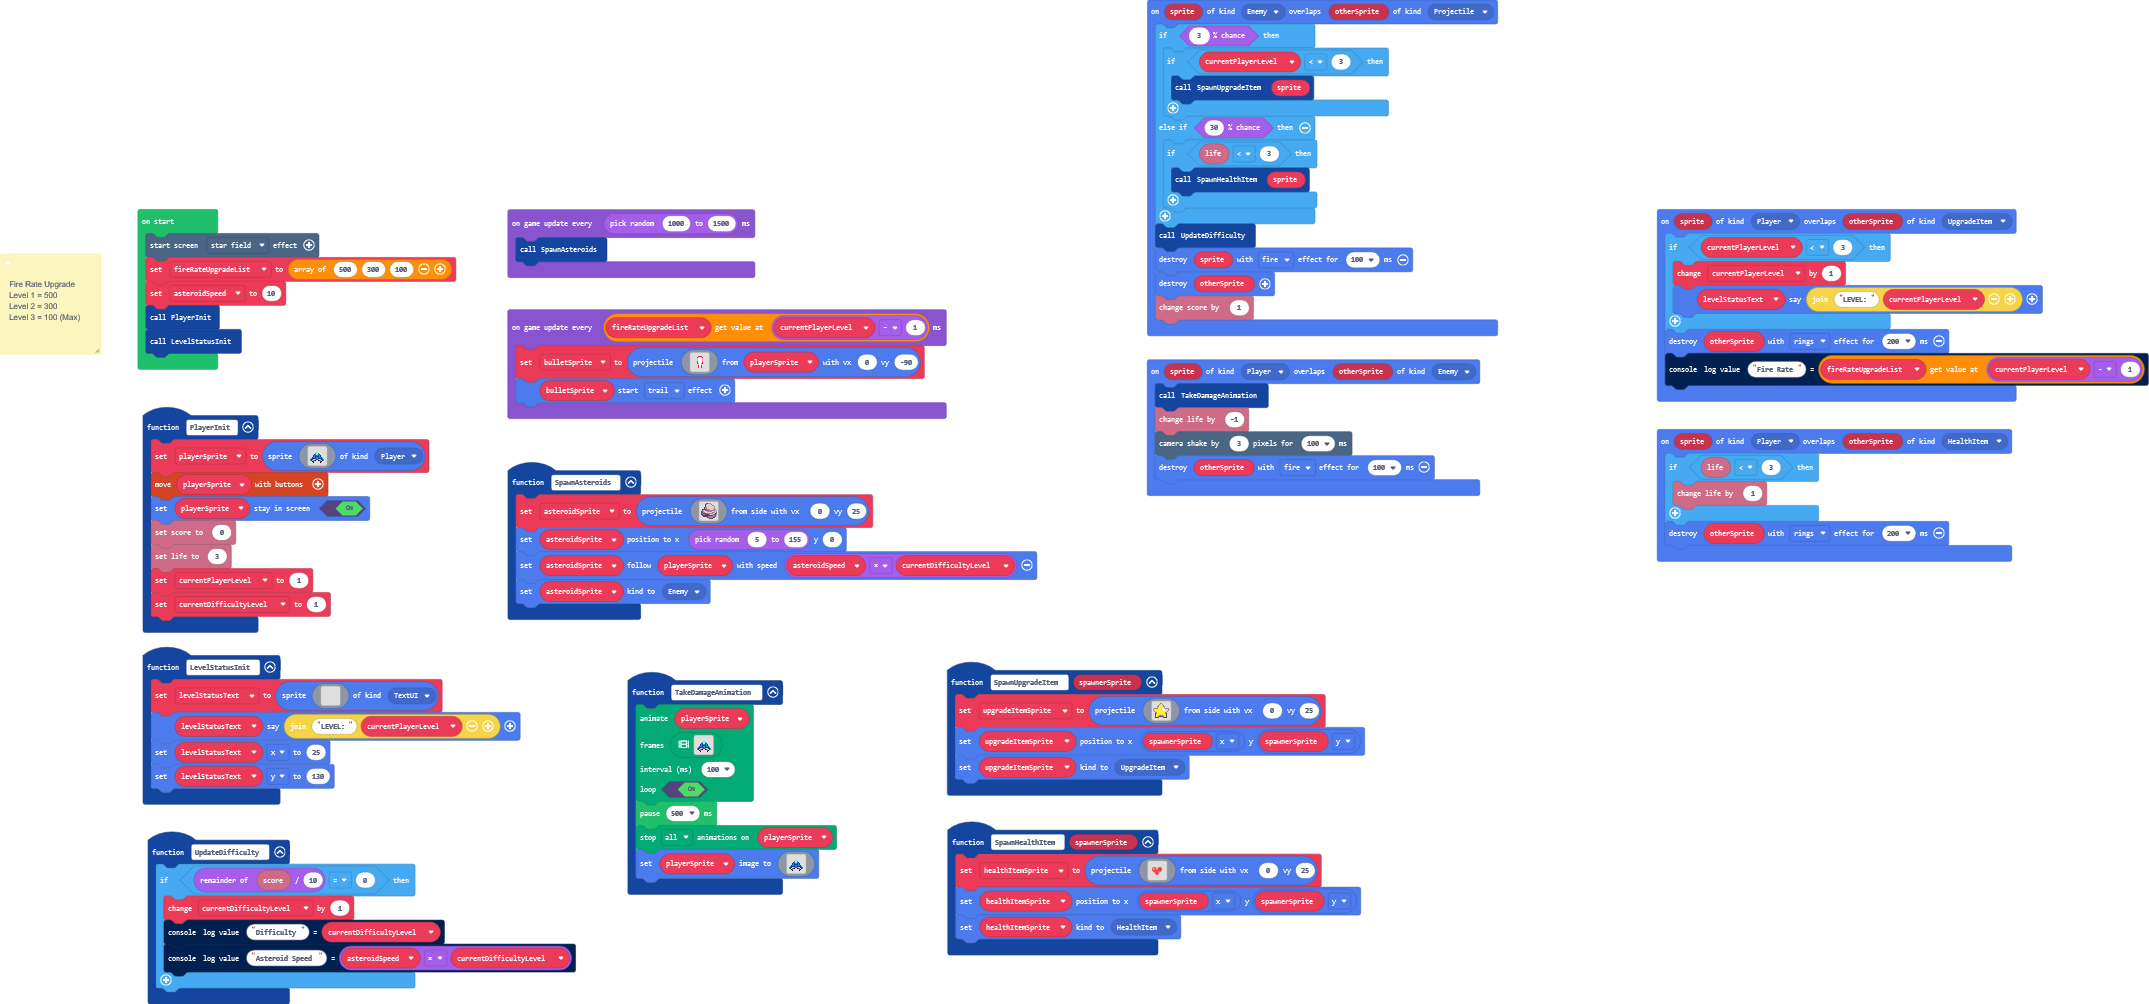
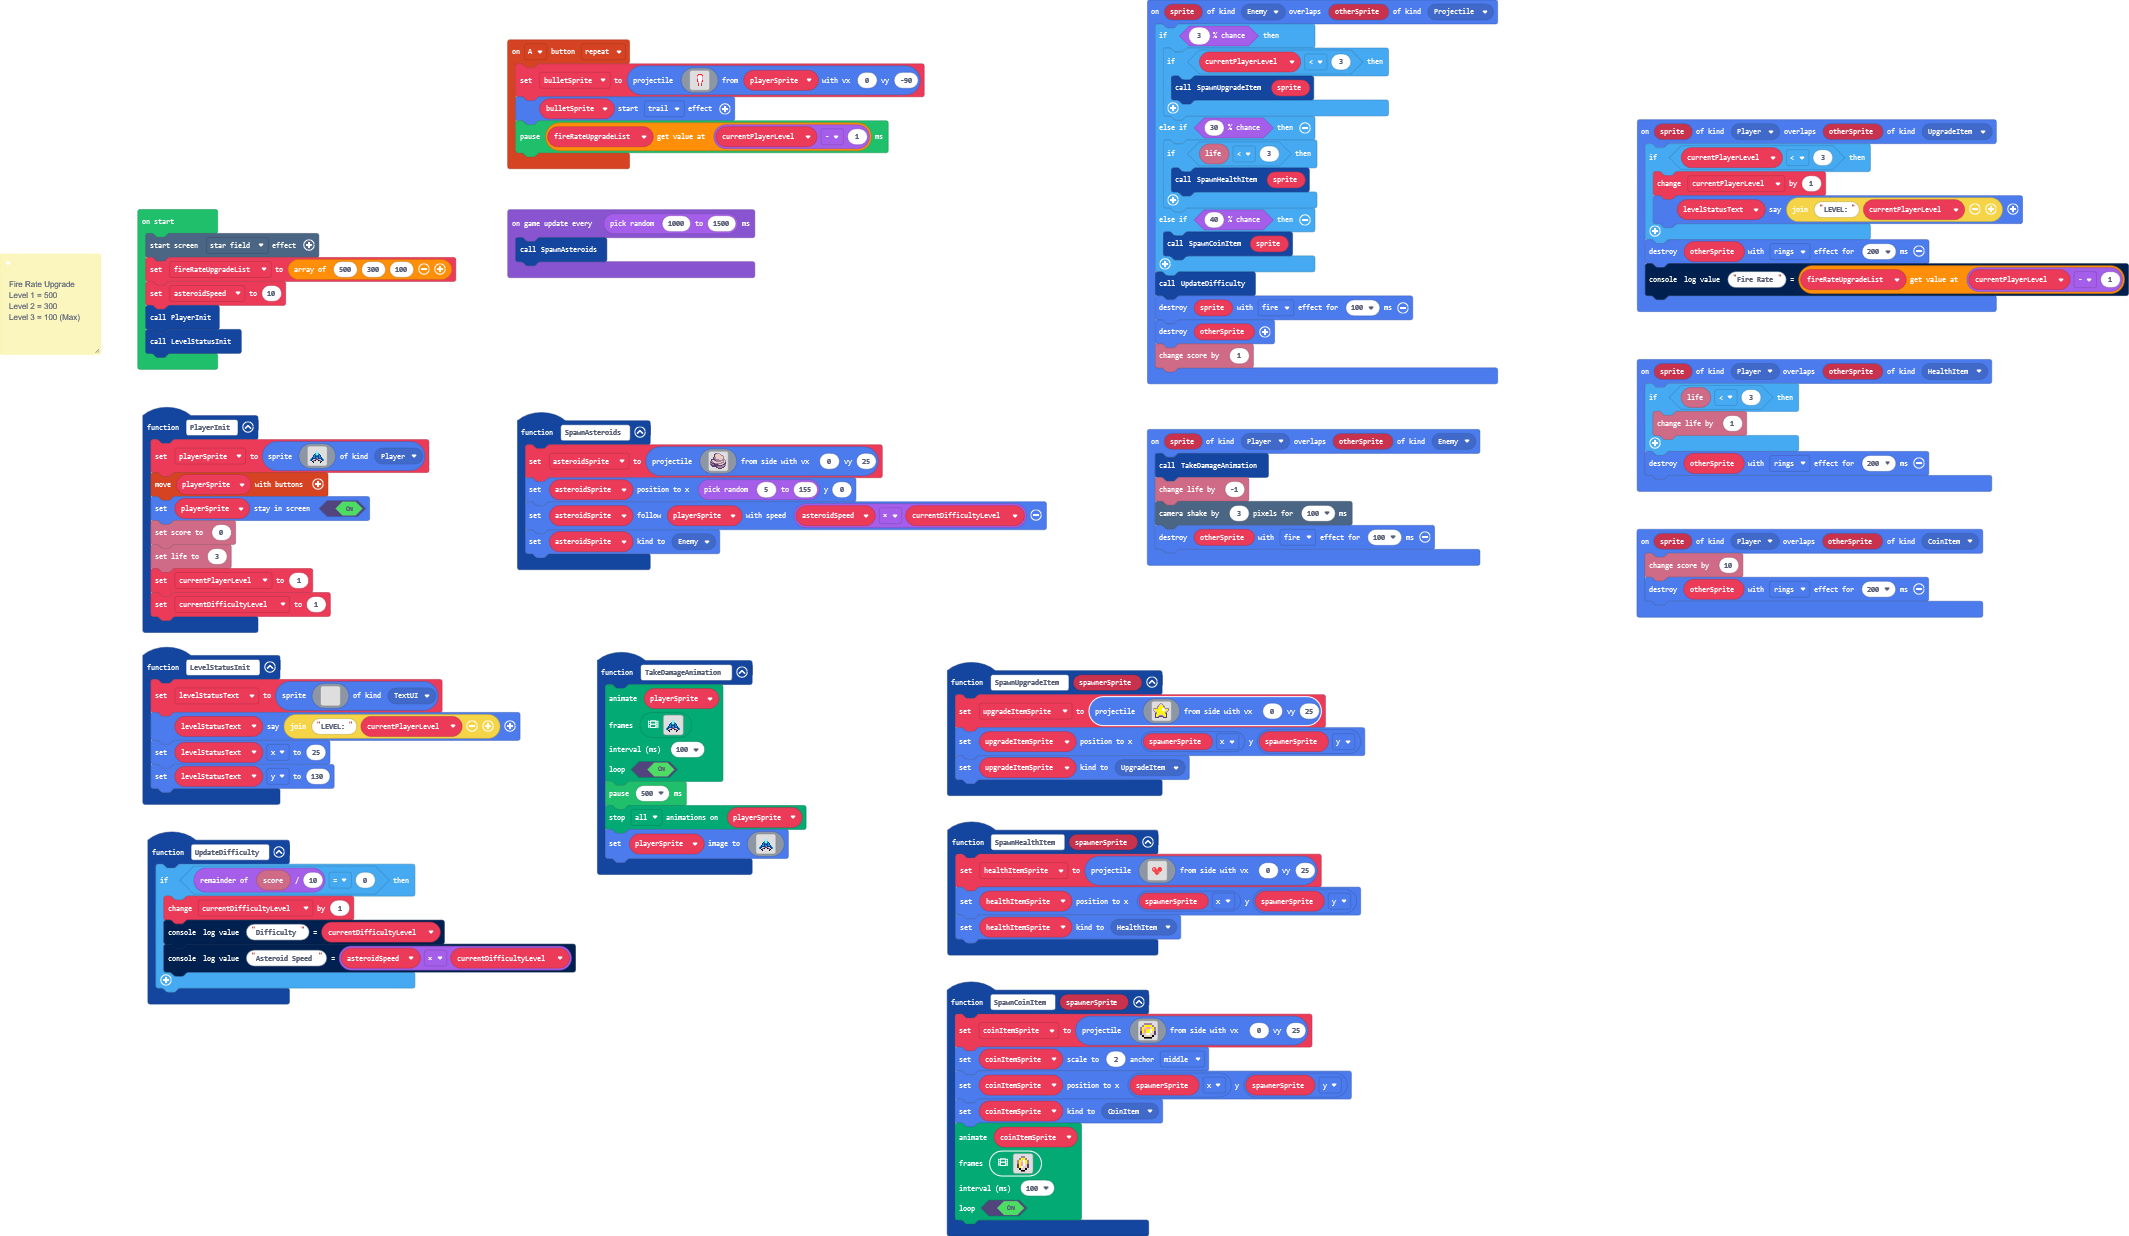
Coin Item

diff --git a/main.ts b/main.ts
@@ -3,6 +3,7 @@ namespace SpriteKind {
     export const Item = SpriteKind.create()
     export const UpgradeItem = SpriteKind.create()
     export const HealthItem = SpriteKind.create()
+    export const CoinItem = SpriteKind.create()
 }
 /**
  * Fire Rate Upgrade
@@ -45,6 +46,81 @@ function UpdateDifficulty () {
         console.logValue("Difficulty", currentDifficultyLevel)
         console.logValue("Asteroid Speed", asteroidSpeed * currentDifficultyLevel)
     }
+}
+function SpawnCoinItem (spawnerSprite: Sprite) {
+    coinItemSprite = sprites.createProjectileFromSide(img`
+        . . b b b b . . 
+        . b 5 5 5 5 b . 
+        b 5 d 3 3 d 5 b 
+        b 5 3 5 5 1 5 b 
+        c 5 3 5 5 1 d c 
+        c d d 1 1 d d c 
+        . f d d d d f . 
+        . . f f f f . . 
+        `, 0, 25)
+    coinItemSprite.setScale(2, ScaleAnchor.Middle)
+    coinItemSprite.setPosition(spawnerSprite.x, spawnerSprite.y)
+    coinItemSprite.setKind(SpriteKind.CoinItem)
+    animation.runImageAnimation(
+    coinItemSprite,
+    [img`
+        . . b b b b . . 
+        . b 5 5 5 5 b . 
+        b 5 d 3 3 d 5 b 
+        b 5 3 5 5 1 5 b 
+        c 5 3 5 5 1 d c 
+        c d d 1 1 d d c 
+        . f d d d d f . 
+        . . f f f f . . 
+        `,img`
+        . . b b b . . . 
+        . b 5 5 5 b . . 
+        b 5 d 3 d 5 b . 
+        b 5 3 5 1 5 b . 
+        c 5 3 5 1 d c . 
+        c 5 d 1 d d c . 
+        . f d d d f . . 
+        . . f f f . . . 
+        `,img`
+        . . . b b . . . 
+        . . b 5 5 b . . 
+        . b 5 d 1 5 b . 
+        . b 5 3 1 5 b . 
+        . c 5 3 1 d c . 
+        . c 5 1 d d c . 
+        . . f d d f . . 
+        . . . f f . . . 
+        `,img`
+        . . . b b . . . 
+        . . b 5 5 b . . 
+        . . b 1 1 b . . 
+        . . b 5 5 b . . 
+        . . b d d b . . 
+        . . c d d c . . 
+        . . c 3 3 c . . 
+        . . . f f . . . 
+        `,img`
+        . . . b b . . . 
+        . . b 5 5 b . . 
+        . b 5 1 d 5 b . 
+        . b 5 1 3 5 b . 
+        . c d 1 3 5 c . 
+        . c d d 1 5 c . 
+        . . f d d f . . 
+        . . . f f . . . 
+        `,img`
+        . . . b b b . . 
+        . . b 5 5 5 b . 
+        . b 5 d 3 d 5 b 
+        . b 5 1 5 3 5 b 
+        . c d 1 5 3 5 c 
+        . c d d 1 d 5 c 
+        . . f d d d f . 
+        . . . f f f . . 
+        `],
+    100,
+    true
+    )
 }
 function SpawnUpgradeItem (spawnerSprite: Sprite) {
     upgradeItemSprite = sprites.createProjectileFromSide(img`
@@ -106,6 +182,8 @@ sprites.onOverlap(SpriteKind.Enemy, SpriteKind.Projectile, function (sprite, oth
         if (info.life() < 3) {
             SpawnHealthItem(sprite)
         }
+    } else if (Math.percentChance(40)) {
+        SpawnCoinItem(sprite)
     }
     UpdateDifficulty()
     sprites.destroy(sprite, effects.fire, 100)
@@ -174,6 +252,32 @@ sprites.onOverlap(SpriteKind.Player, SpriteKind.UpgradeItem, function (sprite, o
     sprites.destroy(otherSprite, effects.rings, 200)
     console.logValue("Fire Rate", fireRateUpgradeList[currentPlayerLevel - 1])
 })
+controller.A.onEvent(ControllerButtonEvent.Repeated, function () {
+    bulletSprite = sprites.createProjectileFromSprite(img`
+        . . . . . . . . . . . . . . . . 
+        . . . . . . . . . . . . . . . . 
+        . . . . . . 2 2 2 2 . . . . . . 
+        . . . . . 2 3 1 1 3 2 . . . . . 
+        . . . . . 3 1 1 1 1 3 . . . . . 
+        . . . . . 3 1 1 1 1 3 . . . . . 
+        . . . . . 3 1 1 1 1 3 . . . . . 
+        . . . . . 2 1 1 1 1 3 . . . . . 
+        . . . . . 2 1 1 1 1 2 . . . . . 
+        . . . . . 2 3 1 1 3 2 . . . . . 
+        . . . . . . 3 1 1 3 . . . . . . 
+        . . . . . . 2 1 1 2 . . . . . . 
+        . . . . . . 2 1 1 2 . . . . . . 
+        . . . . . . 2 1 1 2 . . . . . . 
+        . . . . . . . . . . . . . . . . 
+        . . . . . . . . . . . . . . . . 
+        `, playerSprite, 0, -90)
+    bulletSprite.startEffect(effects.trail)
+    pause(fireRateUpgradeList[currentPlayerLevel - 1])
+})
+sprites.onOverlap(SpriteKind.Player, SpriteKind.CoinItem, function (sprite, otherSprite) {
+    info.changeScoreBy(10)
+    sprites.destroy(otherSprite, effects.rings, 200)
+})
 function LevelStatusInit () {
     levelStatusText = sprites.create(img`
         . . . . . . . . . . . . . . . . 
@@ -209,6 +313,7 @@ let currentPlayerLevel = 0
 let playerSprite: Sprite = null
 let asteroidSprite: Sprite = null
 let upgradeItemSprite: Sprite = null
+let coinItemSprite: Sprite = null
 let currentDifficultyLevel = 0
 let healthItemSprite: Sprite = null
 let asteroidSpeed = 0
@@ -220,25 +325,4 @@ PlayerInit()
 LevelStatusInit()
 game.onUpdateInterval(randint(1000, 1500), function () {
     SpawnAsteroids()
-})
-game.onUpdateInterval(fireRateUpgradeList[currentPlayerLevel - 1], function () {
-    bulletSprite = sprites.createProjectileFromSprite(img`
-        . . . . . . . . . . . . . . . . 
-        . . . . . . . . . . . . . . . . 
-        . . . . . . 2 2 2 2 . . . . . . 
-        . . . . . 2 3 1 1 3 2 . . . . . 
-        . . . . . 3 1 1 1 1 3 . . . . . 
-        . . . . . 3 1 1 1 1 3 . . . . . 
-        . . . . . 3 1 1 1 1 3 . . . . . 
-        . . . . . 2 1 1 1 1 3 . . . . . 
-        . . . . . 2 1 1 1 1 2 . . . . . 
-        . . . . . 2 3 1 1 3 2 . . . . . 
-        . . . . . . 3 1 1 3 . . . . . . 
-        . . . . . . 2 1 1 2 . . . . . . 
-        . . . . . . 2 1 1 2 . . . . . . 
-        . . . . . . 2 1 1 2 . . . . . . 
-        . . . . . . . . . . . . . . . . 
-        . . . . . . . . . . . . . . . . 
-        `, playerSprite, 0, -90)
-    bulletSprite.startEffect(effects.trail)
 })
